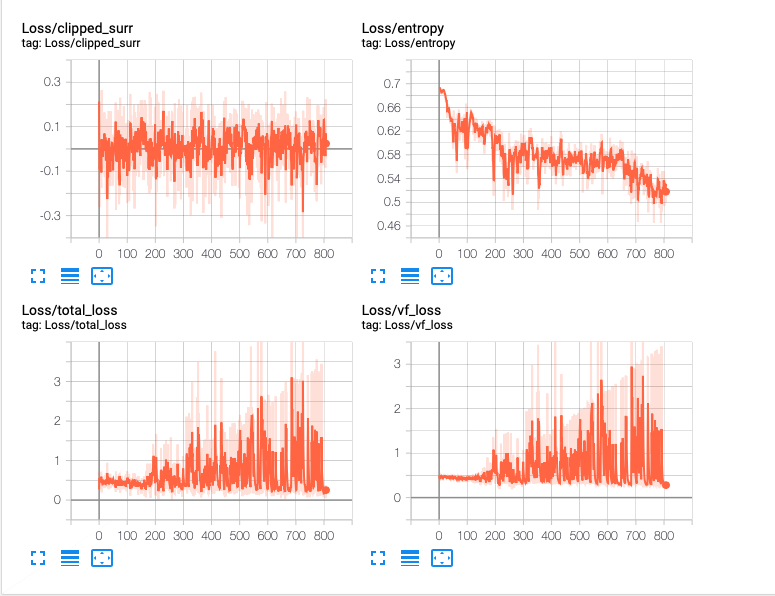
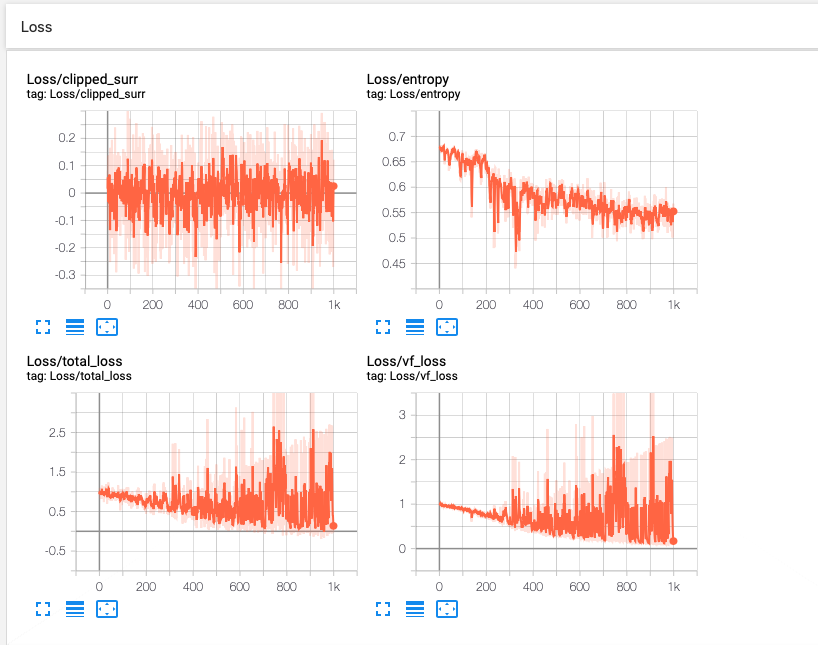
PPO model update

Changed region(s): [[0.0, 0.0302, 1.0, 0.9664], [0.0, 0.9966, 1.0, 1.0]]

diff --git a/PPO/TF2_PPO.py b/PPO/TF2_PPO.py
@@ -46,7 +46,7 @@ class PPO:
             self,
             env,
             discrete=False,
-            lr=1e-3,
+            lr=5e-4,
             hidden_units=(24, 16),
             c1=1.0,
             c2=0.01,
@@ -268,7 +268,7 @@ if __name__ == "__main__":
 
     ppo = PPO(gym_env, discrete=is_discrete)
 
-    # ppo.load_model("basic_models/ppo_episode200.h5")
-    ppo.train(max_epochs=1000, save_freq=50)
-    # reward = ppo.test()
-    # print("Total rewards: ", rewards)
+    ppo.load_model("basic_models/ppo_episode176.h5")
+    # ppo.train(max_epochs=1000, save_freq=50)
+    reward = ppo.test()
+    print("Total rewards: ", reward)
